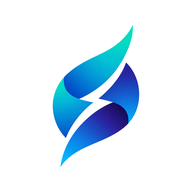
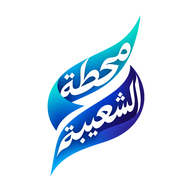
أيقونة جديدة: شعار محطة الشعيبة بالخط
Claude-Session: https://claude.ai/code/session_01UbpZsMkDyX3Umi3xAA7CcS

Changed region(s): [[0.2188, 0.0625, 0.7812, 0.9062]]

diff --git a/sw.js b/sw.js
@@ -1,6 +1,6 @@
 /* يحفظ ملفات التطبيق ليعمل بدون إنترنت. غيّر الرقم عند كل تحديث. */
-const CACHE = 'mewshift-v8';
-const FILES = ['./', 'index.html', 'css/app.css?v=8', 'js/i18n.js?v=8', 'js/rules.js?v=8', 'js/app.js?v=8', 'manifest.webmanifest?v=2', 'icons/icon-192.png?v=2', 'icons/icon-512.png?v=2', 'icons/apple-touch-icon.png?v=2'];
+const CACHE = 'mewshift-v9';
+const FILES = ['./', 'index.html', 'css/app.css?v=9', 'js/i18n.js?v=9', 'js/rules.js?v=9', 'js/app.js?v=9', 'manifest.webmanifest?v=3', 'icons/icon-192.png?v=3', 'icons/icon-512.png?v=3', 'icons/apple-touch-icon.png?v=3'];
 
 self.addEventListener('install', e => { e.waitUntil(caches.open(CACHE).then(c => c.addAll(FILES)).then(() => self.skipWaiting())); });
 self.addEventListener('activate', e => {
@@ -24,7 +24,7 @@ self.addEventListener('push', e => {
   let d = {};
   try { d = e.data ? e.data.json() : {}; } catch (err) { d = { title: 'MEW Shift', body: e.data ? e.data.text() : '' }; }
   e.waitUntil(self.registration.showNotification(d.title || 'MEW Shift', {
-    body: d.body || '', tag: d.tag || 'mewshift', icon: 'icons/icon-192.png?v=2', badge: 'icons/icon-192.png?v=2', lang: 'ar', dir: 'auto'
+    body: d.body || '', tag: d.tag || 'mewshift', icon: 'icons/icon-192.png?v=3', badge: 'icons/icon-192.png?v=3', lang: 'ar', dir: 'auto'
   }));
 });
 self.addEventListener('notificationclick', e => {

diff --git a/index.html b/index.html
@@ -11,13 +11,13 @@
 <meta name="apple-mobile-web-app-status-bar-style" content="default">
 <meta name="apple-mobile-web-app-title" content="MEW Shift">
 <title>MEW Shift</title>
-<link rel="manifest" href="manifest.webmanifest?v=2">
-<link rel="icon" type="image/png" href="icons/favicon.png?v=2">
-<link rel="apple-touch-icon" href="icons/apple-touch-icon.png?v=2">
+<link rel="manifest" href="manifest.webmanifest?v=3">
+<link rel="icon" type="image/png" href="icons/favicon.png?v=3">
+<link rel="apple-touch-icon" href="icons/apple-touch-icon.png?v=3">
 <link rel="preconnect" href="https://fonts.googleapis.com">
 <link rel="preconnect" href="https://fonts.gstatic.com" crossorigin>
 <link href="https://fonts.googleapis.com/css2?family=IBM+Plex+Sans+Arabic:wght@400;500;600;700&display=swap" rel="stylesheet">
-<link rel="stylesheet" href="css/app.css?v=8">
+<link rel="stylesheet" href="css/app.css?v=9">
 </head>
 <body>
 <main id="app" aria-live="polite"></main>
@@ -25,8 +25,8 @@
 <div id="sheet" hidden></div>
 <div id="toast" class="toast" role="status"></div>
 <noscript>يحتاج التطبيق إلى تفعيل JavaScript.</noscript>
-<script src="js/i18n.js?v=8"></script>
-<script src="js/rules.js?v=8"></script>
-<script src="js/app.js?v=8"></script>
+<script src="js/i18n.js?v=9"></script>
+<script src="js/rules.js?v=9"></script>
+<script src="js/app.js?v=9"></script>
 </body>
 </html>

diff --git a/js/app.js b/js/app.js
@@ -423,7 +423,7 @@ function renderSettings() {
       <b>${t('data')}</b><span class="muted sm">${t('dataNote')}</span>
       <button type="button" class="btn danger" data-act="resetAsk">${t('resetAll')}</button>
     </section>
-    <p class="muted sm center">MEW Shift · v0.8</p>`;
+    <p class="muted sm center">MEW Shift · v0.9</p>`;
 }
 
 /* ---------- النوافذ (Sheets) ---------- */
@@ -626,7 +626,7 @@ async function syncPush() {
 
 /* ---------- التنبيهات أثناء فتح التطبيق ---------- */
 function notify(msg) {
-  try { if ('Notification' in window && Notification.permission === 'granted') new Notification('MEW Shift', { body: msg, icon: 'icons/icon-192.png?v=2' }); } catch (e) { /* */ }
+  try { if ('Notification' in window && Notification.permission === 'granted') new Notification('MEW Shift', { body: msg, icon: 'icons/icon-192.png?v=3' }); } catch (e) { /* */ }
 }
 function tick() {
   if (!group()) return;
